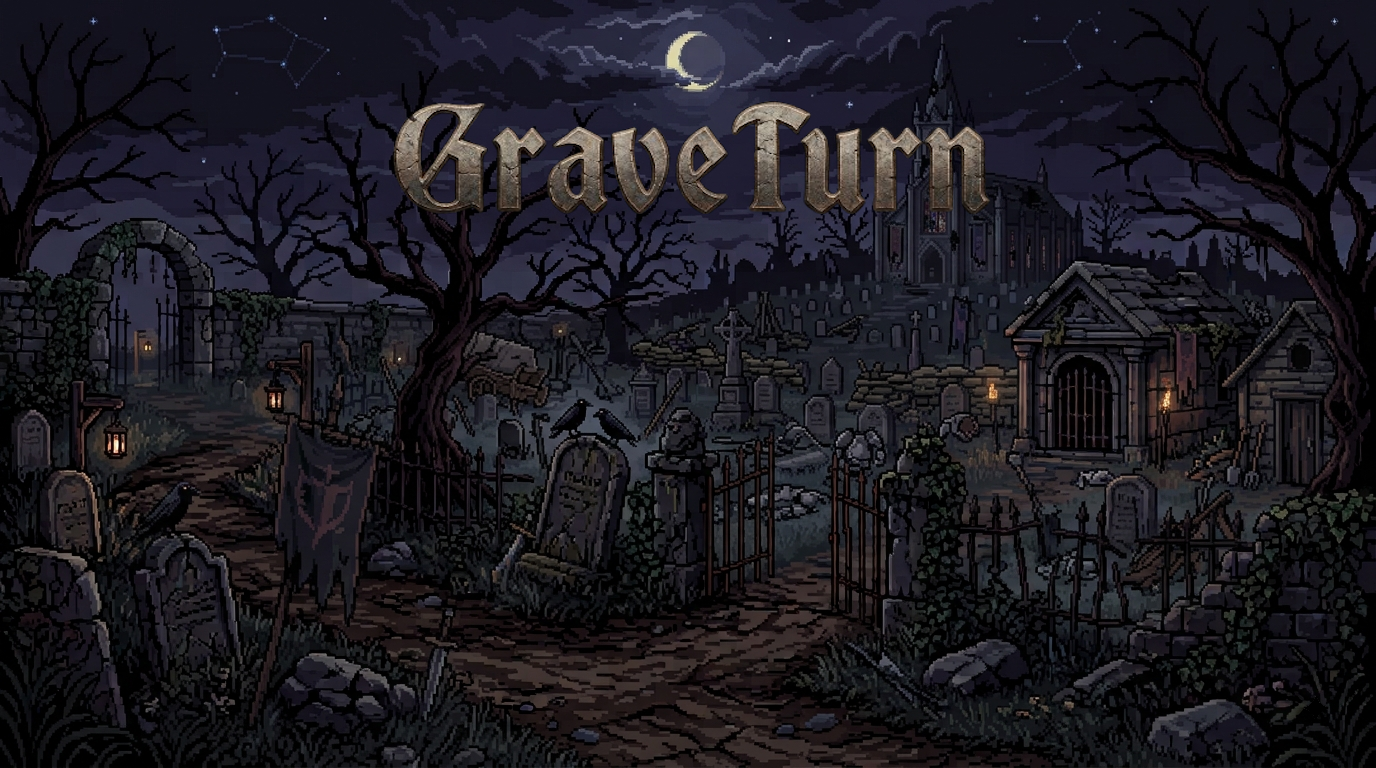
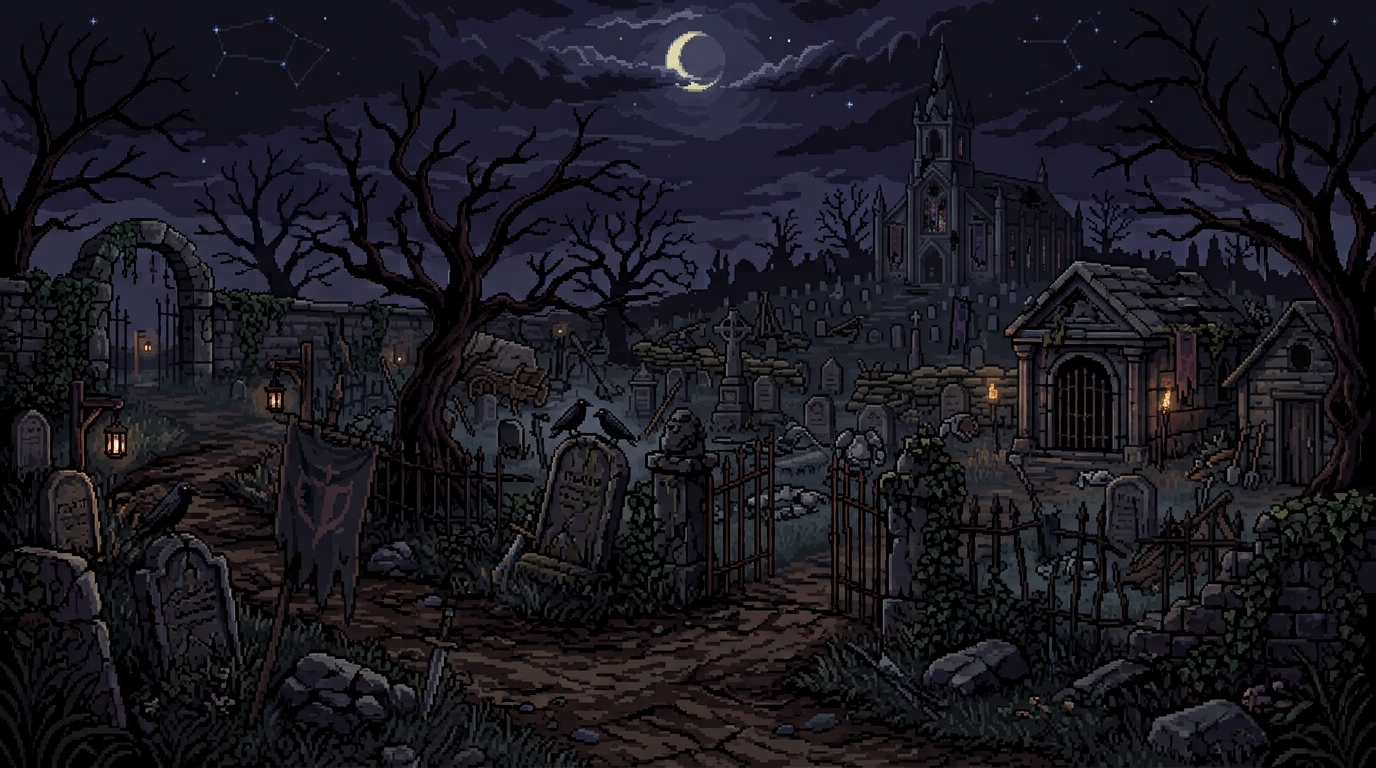
Add healing animation frames for Black-Hat character
- Added frame1.png, frame2.png, and frame3.png for the healing animation of the Black-Hat character in both character and enemy sprite directories.
- These frames were created using Paint.NET and include necessary PNG headers and metadata.

Changed region(s): [[0.2812, 0.125, 0.7188, 0.2812]]

diff --git a/src/Delay.java b/src/Delay.java
@@ -9,9 +9,11 @@ public class Delay {
             Runnable actionRunnable) {
         Inteligence intelligence = new Inteligence(player, enemy);
         String actionEnemy = intelligence.decideAction();
-        actionConditionAttack(actionEnemy, enemy, player, onTurnFinished, intelligence);
+        if (actionConditionAttack(actionEnemy, enemy, player, gameManager, onTurnFinished, intelligence)) {
+            return;
+        }
         Timer timer = new Timer(1000, e -> {
-            if (gameManager.getGameOver()) {
+            if (gameManager.getGameOver() || gameManager.getPlayerTurn()) {
                 return;
             }
             executeCode(enemy, player, gameManager, onTurnFinished, actionRunnable, intelligence, actionEnemy);
@@ -38,18 +40,30 @@ public class Delay {
         timer.start();
     }
 
-    private static void actionConditionAttack(String actionEnemy, Enemy enemy, Player player, Runnable onTurnFinished,
-            Inteligence intelligence) {
-        System.out.println("Player last action: " + player.getLastAction());
+    private static boolean actionConditionAttack(String actionEnemy, Enemy enemy, Player player,
+            GameManager gameManager,
+            Runnable onTurnFinished, Inteligence intelligence) {
         if (player.getLastAction() != null && player.getLastAction().equals("attack") && !actionEnemy.equals("dodge")) {
             player.attack(enemy);
             AudioManager.getInstance().playEffect("attack");
+            return false;
+        } else if (player.getLastAction() != null && player.getLastAction().equals("attack")
+                && actionEnemy.equals("dodge")) {
+            Timer timer = new Timer(1000, e -> {
+                if (gameManager.getGameOver()) {
+                    return;
+                }
+                dodgeEnemyAction(enemy, player, intelligence);
+                if (!gameManager.getGameOver()) {
+                    gameManager.nextTurn();
+                }
+                onTurnFinished.run();
+            });
+            timer.setRepeats(false);
+            timer.start();
+            return true;
         }
-        else if (player.getLastAction() != null && player.getLastAction().equals("attack") && actionEnemy.equals("dodge")) {
-            dodgeEnemyAction(enemy, player, intelligence);
-            onTurnFinished.run();
-            return;
-        }
+        return false;
     }
 
     private static void dodgePlayerAction(Runnable actionRunnable, Enemy enemy, Player player,
@@ -73,6 +87,7 @@ public class Delay {
         System.out.println("Player last action: " + player.getLastAction());
         if (intelligence.isDodgeAttack()) {
             player.setState(State.ATTACK);
+            AudioManager.getInstance().playEffect("attack");
             enemy.Dodge();
             AudioManager.getInstance().playEffect("dodge");
         } else {
@@ -89,6 +104,9 @@ public class Delay {
         } else if (actionEnemy.equals("heal")) {
             enemy.heal();
             AudioManager.getInstance().playEffect("heal");
+        } else {
+            enemy.attack(player);
+            AudioManager.getInstance().playEffect("attack");
         }
     }
 }

diff --git a/src/ActionsContainer.java b/src/ActionsContainer.java
@@ -3,6 +3,7 @@ package src;
 import java.awt.*;
 import javax.swing.JPanel;
 import java.awt.GridBagConstraints;
+import java.util.Timer;
 
 public class ActionsContainer extends JPanel {
     private final Button attackButton;
@@ -69,5 +70,16 @@ public class ActionsContainer extends JPanel {
         attackButton.setEnabled(playerTurn && !isWinner);
         dodgeButton.setEnabled(playerTurn && !isWinner);
         healButton.setEnabled(playerTurn && !isWinner && playersPotions);
+
+        if (playersPotions) {
+            if (player.getPotion() >= 3) {
+                healButton.setIcon(Paths.SelectPotion("1") + "3.png");
+            } else if (player.getPotion() == 2) {
+                healButton.setIcon(Paths.SelectPotion("1") + "2.png");
+            } else {
+                healButton.setIcon(Paths.SelectPotion("1") + "1.png");
+            }
+
+        }
     }
 }

diff --git a/src/InitializeEnemy.java b/src/InitializeEnemy.java
@@ -13,6 +13,10 @@ public class InitializeEnemy {
                                                 true));
                 enemyFrames.put(Character.State.HURT,
                                 LoadFrames.loadFrames(Paths.SelectEnemy(characterName) + "Hurt/", 4, true, true));
+                enemyFrames.put(Character.State.HURT,
+                                LoadFrames.loadFrames(Paths.SelectEnemy(characterName) + "Hurt/", 4, true, true));
+                enemyFrames.put(Character.State.HEAL,
+                                LoadFrames.loadFrames(Paths.SelectEnemy(characterName) + "Heal/", 3, true, true));
                 enemyFrames.put(Character.State.DODGE,
                                 LoadFrames.loadFrames(Paths.SelectEnemy(characterName) + "Dodge/", 3, true, true));
                 enemyFrames.put(Character.State.DEAD,

diff --git a/src/InitializePlayer.java b/src/InitializePlayer.java
@@ -13,6 +13,8 @@ public class InitializePlayer {
                                                 false));
                 playerFrames.put(Character.State.HURT,
                                 LoadFrames.loadFrames(Paths.SelectCharacter(characterName) + "Hurt/", 4, true, false));
+                playerFrames.put(Character.State.HEAL,
+                                LoadFrames.loadFrames(Paths.SelectCharacter(characterName) + "Heal/", 3, true, false));
                 playerFrames.put(Character.State.DODGE,
                                 LoadFrames.loadFrames(Paths.SelectCharacter(characterName) + "Dodge/", 3, true, false));
                 playerFrames.put(Character.State.DEAD,

diff --git a/src/Character.java b/src/Character.java
@@ -31,7 +31,7 @@ public class Character {
 
     public void receiveDamage(int damage) {
         if (this.health > 0) {
-            this.health -= damage;
+            this.health -= health > damage ? damage : this.health;
             setState(State.HURT);
             accReceiveDamage += damage;
         }
@@ -148,6 +148,9 @@ public class Character {
             setState(State.IDLE);
         }
         if (state == State.DODGE && animator.getCompleted().getOrDefault(State.DODGE, false)) {
+            setState(State.IDLE);
+        }
+        if (state == State.HEAL && animator.getCompleted().getOrDefault(State.HEAL, false)) {
             setState(State.IDLE);
         }
     }

diff --git a/src/PanelInitialize.java b/src/PanelInitialize.java
@@ -18,7 +18,13 @@ public class PanelInitialize extends JPanel {
         bg.setLayout(new GridBagLayout());
         // Objeto para dar las instrucciones de posición
         GridBagConstraints gbc = new GridBagConstraints();
-
+        
+        BackgroundPanel title = new BackgroundPanel("title.png", 550, 150);
+        title.setOpaque(false);
+        gbc.gridx = 0;
+        gbc.gridy = 0;
+        gbc.insets = new Insets(20, 0, 0, 0);
+        bg.add(title, gbc);
         // 2. CONFIGURACIÓN DEL BOTÓN (Fila 1)
         Button button = new Button("Play", null);
         button.addActionListener(e -> {
